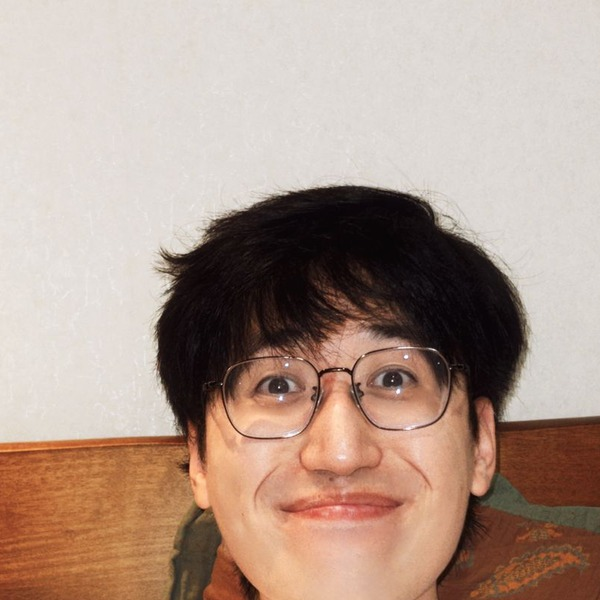
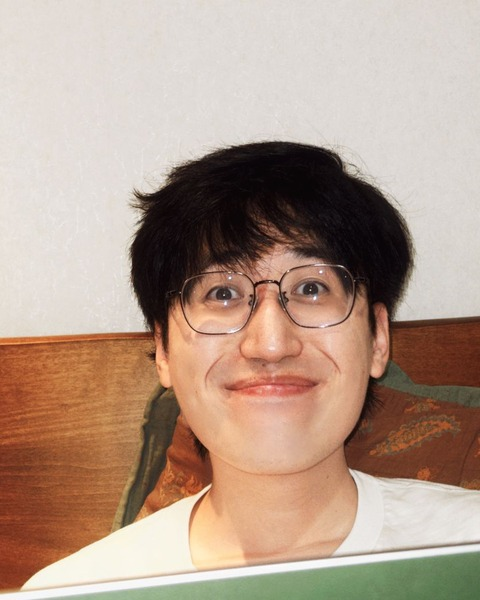
Fix LongWriter-Zero link/authors, portrait crop for all photos

diff --git a/_pages/about.md b/_pages/about.md
@@ -82,7 +82,7 @@ My papers have received <a href='https://scholar.google.com/citations?user=XIyHT
 
 ## Papers
 
-- <span style="color:#2471a3;font-weight:600;">[ICLR 2026 Oral]</span> **Yuhao Wu\***, Yushi Bai\*, Jiajie Zhang, Xin Lv, Roy Ka-Wei Lee, Juanzi Li. [LongWriter-Zero: Mastering Ultra-Long Text Generation via Reinforcement Learning](https://arxiv.org/abs/2502.07593). \[[Code](https://github.com/THUDM/LongWriter-Zero)\]
+- <span style="color:#2471a3;font-weight:600;">[ICLR 2026 Oral]</span> **Yuhao Wu\***, Yushi Bai\*, Zhiqiang Hu, Roy Ka-Wei Lee, Juanzi Li. [LongWriter-Zero: Mastering Ultra-Long Text Generation via Reinforcement Learning](https://arxiv.org/abs/2506.18841). \[[Code](https://github.com/THUDM/LongWriter-Zero)\]
 
 - <span style="color:#7f8c8d;font-weight:600;">[arXiv 2026]</span> **Yuhao Wu**, Maojia Song, Yihuai Lan, Lei Wang, Zhiqiang Hu, Yao Xiao, Heng Zhou, Weihua Zheng, Dylan Raharja, Soujanya Poria, Roy Ka-Wei Lee. [From Perception to Action: An Interactive Benchmark for Vision Reasoning](https://arxiv.org/abs/2602.21015).
 
